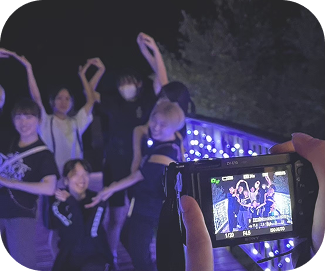
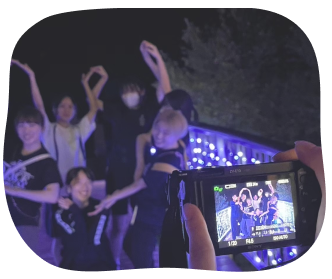
17/15:00change

diff --git a/style.css b/style.css
@@ -205,39 +205,81 @@ h2 span{
     background-color: #21013206;
 }
 
-.background {
-    background-image: url(image/event-background.png);
-    width: 100%;
-}
-
 .event {
-    display: flex;
-    justify-content: space-between;
-    align-items: center;
-    padding: 80px 0;
+    padding: 20px 0;
+    margin-top: 50px;
+    position: relative;
 }
 
 .event-content {
-    position: relative;
-    max-width: 500px;
+    max-width: 100%;
+    min-height: 500px;
+    margin-bottom: 50px;
 }
 
-
-.event-box:nth-child(odd).event-background {
-    position: absolute;
-    top: 0%;
-    left: 0;
-    width: 100%;
+.event-background {
     z-index: -1;
 }
 
-.event-box:nth-child(even).event-background {
+.event-img1 img:nth-child(1){
     position: absolute;
-    top: 0%;
+    top: 10%;
     right: 0;
-    width: 100%;
+    z-index: 1;
+    width: 60%;
+    height: auto;
     z-index: -1;
 }
+
+.event-img1 img:nth-child(2){
+    position: absolute;
+    width: 250px;
+    right: 5%;
+    top: 50%;
+    z-index: 3;
+}
+
+.event-img2 img:nth-child(1){
+    position: absolute;
+    top: 0;
+    left: 0;
+    z-index: 1;
+    width: 60%;
+    height: auto;
+    z-index: -1;
+}
+
+.event-img2 img:nth-child(2){
+    position: absolute;
+    width: 300px;
+    left: 8%;
+    top: 65%;
+    z-index: 1;
+}
+
+.event:nth-of-type(odd) .event-background{
+   margin-top: -30%;
+}
+
+.event:nth-of-type(even) .event-background{
+    position: absolute;
+    right: 0%;
+    top: -10%;
+}
+
+.event:nth-of-type(even) .event-box{
+    position: absolute;
+    right: 10%;
+}
+
+.event:nth-of-type(2) .event-box {
+    top: 50%;
+}
+
+.event:nth-of-type(4) .event-box {
+    top: 20%;
+}
+
 
 .event-box{
     background-color: #ffffff;
@@ -249,45 +291,42 @@ h2 span{
     align-items: center;
     position: relative;
     padding: 20px 0;
-    margin-top: 50px;
 }
-
 
 .event-shadow {
     background-color: #21013230;
     width: 100%;
     height: 90%;
     position: absolute;
+    top:50px;
     z-index: -1;
 }
 
 .event:nth-of-type(odd) .event-shadow {
     left: -30px;
-    top: 50px;
 }
 
 .event:nth-of-type(even) .event-shadow {
     right: -30px;
-    top: 50px;
 }
 
 .event-month p{
     font-family: "Lily Script One", system-ui;
     font-size: 40px;
     position: absolute;
+    top: -15%;
 }
 
 .event:nth-of-type(odd) .event-month p{
-    top: -15%;
     left: 5%;
     right: auto;
 }
 
 .event:nth-of-type(even) .event-month p{
-    top: -15%;
     right: 5%;
     left: auto;
 }
+
 
 .event-box p{
     max-width: 70%;
@@ -303,19 +342,15 @@ h2 span{
 }
 
 .event:nth-of-type(odd) .event-box{
-    margin-left: 20%;
+    margin: 20% 0 0 10%;
 }
 
-.event:nth-of-type(odd) .event-box{
-    margin-right: 20px;
-}
 
-.event-btn {
+.event-btn{
     background-color: #D7E594;
     border-radius: 6px;
     padding: 5px 15px;
     display: flex;
-    justify-content: space-around;
     align-items: center;
     text-decoration: none;
     column-gap: 10px;
@@ -335,44 +370,6 @@ h2 span{
 }
 .btn-icon {
     padding-top: 5px;
-}
-
-.event-img {
-    position: relative;
-}
-
-.event-img img:nth-child(1){
-    position: absolute;
-    top: 0;
-    right: 5%;
-    z-index: 1;
-    max-width: 750px;
-    height: auto;
-    z-index: -1;
-}
-
-.event-img img:nth-child(2){
-    position: absolute;
-    max-width: 250px;
-    right: 15%;
-    top: 80%;
-    z-index: 1;
-}
-
-.event-img img:nth-child(3){
-    position: absolute;
-    max-width: 750px;
-    right: 15%;
-    top: 90%;
-    z-index: -1;
-}
-
-.event-img img:nth-child(4){
-    position: absolute;
-    max-width: 250px;
-    left: 15%;
-    top: 90%;
-    z-index: 1;
 }
 
 
@@ -497,8 +494,11 @@ summary.accordion_title::-webkit-details-marker {
     text-align: center;
 }
 
+.message {
+    margin: 50px 0;
+}
 .message p{
-    font-size: 32px;
+    font-size: 28px;
     font-weight: 500;
     text-align: center;
     line-height: 48px;
@@ -517,7 +517,13 @@ summary.accordion_title::-webkit-details-marker {
     display: flex;
     align-items: center;
     flex-direction: column;
+    transition: transform 0.3s ease;
 }
+
+.sns-btn:hover {
+    transform: translateY(2px);
+}
+
 
 .sns-letter {
     display: flex;
@@ -655,7 +661,6 @@ footer {
     .container h2 {
         font-size: 32px;
     }
-    
     
 
     .faq-comment p{

diff --git a/index.html b/index.html
@@ -161,18 +161,14 @@
             <div class="event-background">
               <img src="image/pink.png" alt="">
             </div>
-          </div>
-          <div class="event-img">
-            <img src="image/schoolfes1.png" alt="" class="schoolfes">
-            <img src="image/schoolfes2.png" alt="">
-          </div>
+            <div class="event-img1">
+              <img src="image/schoolfes1.png" alt="" class="schoolfes">
+              <img src="image/schoolfes2.png" alt="">
+            </div>
+          </div>       
         </div>
 
         <div class="event">
-          <div class="event-img">
-            <img src="image/camp1.png" alt="">
-            <img src="image/camp2.png" alt="">
-          </div>
           <div class="event-content">
             <div class="event-box">
               <div class="event-month">
@@ -185,14 +181,56 @@
             <div class="event-background">
               <img src="image/green.png" alt="">
             </div>
+            <div class="event-img2">
+              <img src="image/camp1.png" alt="">
+              <img src="image/camp2.png" alt="">
+            </div>
+          </div>       
+        </div>
+
+        <div class="event">
+          <div class="event-content">
+            <div class="event-box">
+              <div class="event-month">
+                <p>April</p>
+              </div>
+              <h3>関西学生舞踏連盟発表会(学連)</h3>
+              <p>関西学生舞踏連盟に所属する関西の約10校での発表会です。<br>全国レベルの他大学に刺激を受けながら、照明から自分たちで演出します！</p>
+              <a href="https://www.instagram.com/gakuren_kansai/" class="event-btn">
+                <span class="btn-text">詳細はこちら</span>
+                <span class="btn-icon">
+                  <img src="image/btn-icon.png" alt="">
+                </span>
+              </a>
+              <div class="event-shadow"></div>
+            </div>
+            <div class="event-background">
+              <img src="image/purple.png" alt="">
+            </div>
           </div>
         </div>
 
-
-        
-        
+        <div class="event">
+          <div class="event-content">
+            <div class="event-box">
+              <div class="event-month">
+                <p>August</p>
+              </div>
+              <h3>オールジャパン</h3>
+              <p>神戸で行われる全国規模の発表会です。<br>参加発表部門と有志でコンクール部門に出演します！新1回生にとって初めてのステージになります！</p>
+              <a href="https://ajdf.jp/about-convention.html" class="event-btn">
+                <span class="btn-text">詳細はこちら</span>
+                <span class="btn-icon">
+                  <img src="image/btn-icon.png" alt="">
+                </span>
+              </a>
+              <div class="event-shadow"></div>
+            </div>
+            <div class="event-background">
+              <img src="image/pink2.png" alt="">
+            </div>
+          </div>     
         </div>
-
       </div>
     </section>
 
